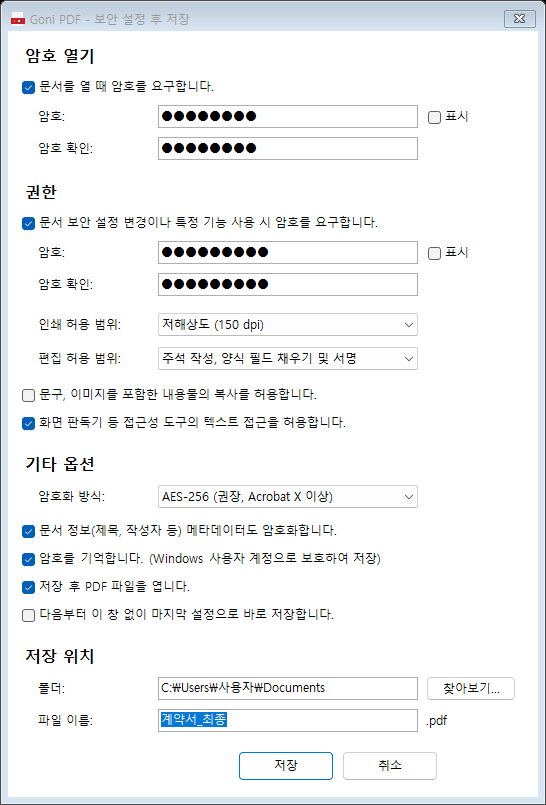
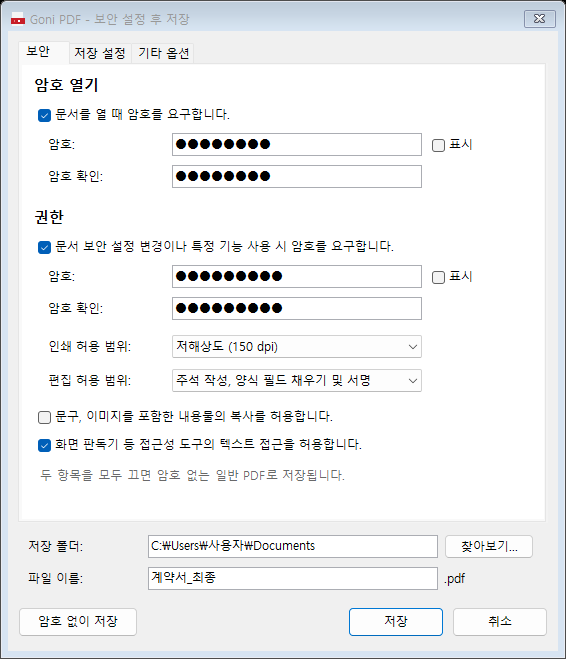
docs: 저장 설정·파일 이름 형식 문서화 및 탭별 스크린샷 갱신

diff --git a/README.md b/README.md
@@ -5,18 +5,20 @@
 ![Platform](https://img.shields.io/badge/platform-Windows%2010%20%7C%2011-0078D6)
 
 모든 Windows 프로그램에서 **"Goni PDF"** 프린터로 인쇄하면, 열기 암호·권한 암호·인쇄/편집/복사 제한이 걸린 PDF로 저장합니다.
-마지막으로 사용한 설정(암호 포함, 선택 시)을 기억합니다.
+마지막으로 사용한 설정(암호 포함, 선택 시)을 기억하고, 필요하면 **[암호 없이 저장]**으로 일반 PDF도 바로 만들 수 있습니다.
+기본 저장 폴더와 파일 이름 형식(`{date}_{title}` 등)을 정할 수 있습니다.
 
 ## 스크린샷
 
-| 인쇄 시 보안 설정 창 (예: 열기 암호 + 권한 제한) | 기본 보안 설정 (트레이 메뉴) |
+| 보안 탭 (열기 암호 + 권한 제한) | 저장 설정 탭 (기본 폴더·파일 이름) |
 |---|---|
-| ![인쇄 시 보안 설정 창](docs/images/dialog-configured.png) | ![기본 보안 설정 창](docs/images/dialog-settings.png) |
+| ![보안 탭](docs/images/dialog-configured.png) | ![저장 설정 탭](docs/images/dialog-save.png) |
 
 <details>
-<summary>처음 인쇄할 때의 기본 화면</summary>
+<summary>처음 인쇄할 때의 기본 화면 / 트레이 메뉴의 기본 설정 창</summary>
 
 ![처음 인쇄 시 기본 화면](docs/images/dialog-default.png)
+![기본 설정 창 - 기타 옵션](docs/images/dialog-settings.png)
 
 </details>
 
@@ -53,12 +55,12 @@
 
 - 프로그램 복사, `Goni PDF` 프린터·포트 등록, 로그온 시 자동 실행, 시작 메뉴 바로가기 생성
 - 제어판 **앱 및 기능**에서 제거 가능 (프린터·포트도 함께 제거, 사용자 설정은 유지)
-- 무인 설치: `GoniPdfPrinterSetup-1.0.0.exe /S` / 무인 제거: `"C:\Program Files\GoniPdfPrinter\Uninstall.exe" /S`
+- 무인 설치: `GoniPdfPrinterSetup-<버전>.exe /S` / 무인 제거: `"C:\Program Files\GoniPdfPrinter\Uninstall.exe" /S`
 
 ## 빌드
 
 ```powershell
-.\build.ps1 -Version 1.0.0
+.\build.ps1 -Version 1.1.0
 ```
 
 앱(`bin\GoniPdfPrinter.exe`)을 컴파일하고, [NSIS 3](https://nsis.sourceforge.io)이 설치돼 있으면 설치 프로그램(`bin\GoniPdfPrinterSetup-<버전>.exe`)도 만듭니다.
@@ -95,12 +97,40 @@
 | | 암호 기억 (Windows DPAPI로 현재 사용자 계정에 묶어 저장) | |
 | | 저장 후 PDF 열기 | |
 | | 다음부터 창 없이 마지막 설정으로 바로 저장 | |
-| 저장 위치 | 폴더, 파일 이름 (기본값: 인쇄한 문서 제목) | |
+| 저장 설정 | 기본 저장 위치: 마지막으로 저장한 폴더 / 항상 지정한 폴더 | |
+| | 기본 파일 이름 형식 (아래 표) + 미리보기 | |
+| | 문서 제목에서 프로그램 이름·확장자 제거 | |
+| | 같은 이름이 있으면: 번호 붙이기 / 덮어쓰기 / 묻기 | |
 
 - 설정 파일: `%APPDATA%\GoniPdfPrinter\settings.ini` — **저장/확인 시마다 마지막 값이 기록**됩니다.
 - 트레이 아이콘 더블클릭(또는 우클릭 → *기본 보안 설정*)으로 언제든 기본값을 바꿀 수 있습니다.
   "창 없이 바로 저장"을 켠 경우 여기서 끄면 됩니다.
-- 두 암호 모두 끄면 암호화 없이 일반 PDF로 저장합니다.
+- **암호 없이 인쇄**: 설정 창의 **[암호 없이 저장]** 버튼은 이번 문서만 일반 PDF로 저장하고 기억된 보안 설정은 그대로 둡니다.
+  항상 암호 없이 저장하려면 보안 탭의 두 항목을 모두 끄세요.
+
+### 파일 이름 형식
+
+| 항목 | 예 (2026-11-23 09:05:07) | 비고 |
+|---|---|---|
+| `{title}` | 분기 보고서 | 인쇄한 문서 제목. 없으면 `문서` |
+| `{date}` / `{time}` / `{datetime}` | 2026-11-23 / 090507 / 2026-11-23_090507 | `{date:yyyyMMdd}`처럼 서식 지정 가능 |
+| `{yyyy}` `{yy}` `{MM}` `{dd}` `{HH}` `{mm}` `{ss}` | 2026 26 11 23 09 05 07 | `{MM}`=월, `{mm}`=분 |
+| `{user}` / `{computer}` | 사용자 이름 / 컴퓨터 이름 | |
+| `{counter}` | 1, 2, 3… | 폴더에 없는 첫 번호. `{counter:000}` → 001 |
+
+예) `{date}_{title}` → `2026-11-23_분기 보고서.pdf`, `스캔_{counter:000}` → `스캔_003.pdf`
+
+기본 폴더에는 환경 변수와 날짜 항목을 쓸 수 있습니다: `%USERPROFILE%\Documents\PDF\{yyyy}-{MM}` (없으면 자동 생성)
+
+**처리하는 엣지 케이스**
+
+- 제목 정리: `보고서.docx - Word`, `Microsoft Excel - 매출.xlsx`, `*제목 없음 - 메모장`, `[호환 모드]`, 전체 경로(`C:\…\계약서.hwp`, UNC), URL(마지막 경로·호스트, % 인코딩 해제)
+- 파일명 안전화: 금지 문자(`\ / : * ? " < > |`) → `_`, 제어·방향 제어(RLO)·0폭 문자 제거, 탭/줄바꿈 → 공백, 끝의 점·공백 제거, NFD 한글 → NFC
+- 예약 이름(`CON`, `NUL`, `COM1`, `aux.txt` …) 앞에 `_`, 빈 제목·금지 문자만 있는 제목 → `문서`
+- 길이: 파일명 150자, 전체 경로 259자 이내로 자동 축약 (이모지 등 서로게이트 쌍을 자르지 않음)
+- `.pdf` 중복 방지, 알 수 없는 `{토큰}`과 제목 속 `{…}`은 그대로 유지
+- 저장 폴더를 쓸 수 없으면(분리된 USB·네트워크 드라이브 등) 문서 폴더로 저장하고 알림
+- 임시 파일에 쓴 뒤 교체하므로 저장 실패 시 기존 파일이 손상되지 않으며, 다른 프로그램에서 연 파일은 안내 후 다시 선택
 
 ## 명령줄 (스크립트·테스트용)
 
@@ -110,6 +140,14 @@ GoniPdfPrinter.exe encrypt 입력.pdf 출력.pdf --open 열기암호 --owner 권
 
 옵션: `--open`, `--owner`, `--print none|low|high`, `--edit 0~4`, `--copy`, `--no-access`, `--aes128`, `--no-meta`
 
+파일 이름 규칙 확인:
+
+```powershell
+GoniPdfPrinter.exe name --title "분기 보고서.docx - Word" --pattern "{date}_{title}" --folder "%USERPROFILE%\Documents\PDF"
+```
+
+옵션: `--title`, `--pattern`, `--folder`(지정 시 최종 경로 출력), `--now 2026-11-23T09:05:07`, `--keep-app`, `--conflict number|overwrite|ask`
+
 기타: `GoniPdfPrinter.exe --settings` (설정 창), `GoniPdfPrinter.exe --test-job 파일.pdf` (프린터 없이 인쇄 작업 흉내)
 
 ## 테스트
@@ -118,7 +156,12 @@ GoniPdfPrinter.exe encrypt 입력.pdf 출력.pdf --open 열기암호 --owner 권
 python -X utf8 tests\verify_encryption.py
 ```
 
-PyMuPDF(`pip install pymupdf`)로 AES-256/128, 한글 암호, 권한 비트, 객체 스트림 PDF, 이미 암호화된 파일 거부를 검증합니다.
+```powershell
+python -X utf8 tests\test_filenames.py
+```
+
+- `verify_encryption.py`: PyMuPDF(`pip install pymupdf`)로 AES-256/128, 한글 암호, 권한 비트, 객체 스트림 PDF, 이미 암호화된 파일 거부를 검증합니다.
+- `test_filenames.py`: 파일 이름·폴더 규칙의 엣지 케이스 53가지를 검증합니다.
 
 ## 참고 / 제한
 
@@ -131,7 +174,8 @@ PyMuPDF(`pip install pymupdf`)로 AES-256/128, 한글 암호, 권한 비트, 객
 | 파일 | 내용 |
 |---|---|
 | `src/Program.cs` | 진입점, 트레이 앱, 파이프 수신기, 작업 처리, CLI |
-| `src/SecurityForm.cs` | 보안 설정 창, 파일명 처리 |
+| `src/SecurityForm.cs` | 설정 창 (보안 / 저장 설정 / 기타 옵션 탭, 암호 없이 저장) |
+| `src/FileNaming.cs` | 파일 이름 형식 전개, 제목 정리, 파일명·폴더 검증, 중복 처리, 안전한 저장 |
 | `src/AppSettings.cs` | 설정 저장/복원 (DPAPI 암호 보호) |
 | `src/PdfModel.cs` | PDF 파서 (xref 테이블/스트림, 객체 스트림, 손상 복구) |
 | `src/PdfSecurity.cs` | 권한 비트, AES-256(R6)/AES-128(R4) 보안 처리기, 암호화 PDF 작성기 |
@@ -139,6 +183,7 @@ PyMuPDF(`pip install pymupdf`)로 AES-256/128, 한글 암호, 권한 비트, 객
 | `installer/printer.ps1` | 프린터·포트 등록/제거 (설치 프로그램에서 호출) |
 | `tools/screenshots.ps1` | README 스크린샷 생성 |
 | `tests/verify_encryption.py` | 암호화 결과 검증 |
+| `tests/test_filenames.py` | 파일 이름·폴더 규칙 엣지 케이스 검증 |
 
 ## 라이선스
 

diff --git a/docs/USER_GUIDE.md b/docs/USER_GUIDE.md
@@ -2,7 +2,7 @@
 
 ## 1. 설치
 
-1. `GoniPdfPrinterSetup-1.0.0.exe`를 실행합니다.
+1. `GoniPdfPrinterSetup-<버전>.exe`를 실행합니다.
 2. 사용자 계정 컨트롤(UAC) 창에서 **예**를 누릅니다.
 3. 설치 폴더를 확인하고 **설치**를 누릅니다.
 4. 완료 화면에서 "Goni PDF 트레이 앱 실행"을 체크한 채 **마침**을 누릅니다.
@@ -14,9 +14,12 @@
 
 1. 워드, 엑셀, 한글, 브라우저 등 아무 프로그램에서 **인쇄**를 선택합니다.
 2. 프린터로 **Goni PDF**를 고르고 인쇄합니다.
-3. 보안 설정 창이 뜨면 원하는 옵션을 지정하고 **저장**을 누릅니다.
+3. 설정 창이 뜨면 원하는 옵션을 지정하고 **저장**을 누릅니다.
+   - 암호가 필요 없는 문서는 **[암호 없이 저장]**을 누르세요. 이번 문서만 일반 PDF로 저장되고, 기억된 보안 설정은 바뀌지 않습니다.
 
-### 설정 창 항목
+설정 창은 **보안 / 저장 설정 / 기타 옵션** 세 탭으로 되어 있고, 아래쪽에서 이번 저장 폴더와 파일 이름을 바로 고칠 수 있습니다.
+
+### 보안 탭
 
 **암호 열기**
 - *문서를 열 때 암호를 요구합니다* — 체크하면 PDF를 열 때 암호를 물어봅니다.
@@ -29,16 +32,44 @@
 - *화면 판독기 등 접근성 도구의 텍스트 접근을 허용합니다*
 
 > 열기 암호와 권한 암호는 서로 달라야 합니다.
+> 두 항목을 모두 끄면 항상 암호 없는 일반 PDF로 저장됩니다.
 
-**기타 옵션**
+### 저장 설정 탭
+
+**기본 저장 위치**
+- *마지막으로 저장한 폴더* — 직전에 저장한 폴더를 다음에도 사용합니다(기본값).
+- *항상 이 폴더* — 늘 같은 폴더에 저장합니다. 환경 변수와 날짜 항목을 쓸 수 있고, 없는 폴더는 자동으로 만듭니다.
+  예) `%USERPROFILE%\Documents\PDF\{yyyy}-{MM}` → `C:\Users\홍길동\Documents\PDF\2026-11`
+
+**기본 파일 이름**
+- *형식* — **[항목 추가 ▾]** 버튼으로 항목을 넣을 수 있고, *미리보기*에 결과가 바로 표시됩니다.
+
+  | 항목 | 의미 | 예 |
+  |---|---|---|
+  | `{title}` | 인쇄한 문서 제목 (없으면 `문서`) | 분기 보고서 |
+  | `{date}` | 날짜 | 2026-11-23 |
+  | `{time}` | 시각 | 090507 |
+  | `{datetime}` | 날짜_시각 | 2026-11-23_090507 |
+  | `{yyyy}` `{MM}` `{dd}` `{HH}` `{mm}` `{ss}` | 연·월·일·시·분·초 (`{MM}` 월, `{mm}` 분) | 2026 11 23 09 05 07 |
+  | `{user}` `{computer}` | 사용자·컴퓨터 이름 | |
+  | `{counter}` | 폴더에 없는 첫 번호 | 1, 2, 3 |
+
+  서식 지정: `{date:yyyyMMdd}` → 20261123, `{date:yyyy년 MM월 dd일}` → 2026년 11월 23일, `{counter:000}` → 001
+
+- *문서 제목에서 프로그램 이름과 확장자를 제거합니다* — `보고서.docx - Word` → `보고서`, `Microsoft Excel - 매출.xlsx` → `매출`, `*제목 없음 - 메모장` → `제목 없음`
+- *같은 이름이 있으면* — 번호 붙이기(`이름 (2).pdf`) / 덮어쓰기 / 저장할 때 묻기
+
+파일 이름에 쓸 수 없는 문자(`\ / : * ? " < > |`)는 `_`로 바뀌고, 너무 긴 이름은 자동으로 줄어듭니다.
+아래쪽 *파일 이름* 칸에 `{date}` 같은 항목을 직접 입력해도 됩니다.
+
+### 기타 옵션 탭
+
 - *암호화 방식* — AES-256(권장, 한글 암호 가능) / AES-128(오래된 뷰어 호환, 영문·숫자·기호 암호만)
 - *메타데이터도 암호화* — 제목·작성자 등 문서 정보까지 암호화
 - *암호를 기억합니다* — 다음 인쇄 때 암호가 자동으로 채워집니다. Windows 계정으로 보호되어 저장됩니다.
 - *저장 후 PDF 파일을 엽니다*
-- *다음부터 이 창 없이 마지막 설정으로 바로 저장합니다* — 창을 띄우지 않고 저장 폴더에 바로 저장합니다(같은 이름이 있으면 `이름 (2).pdf`).
-
-**저장 위치**
-- 폴더와 파일 이름. 파일 이름은 인쇄한 문서 제목으로 자동 입력됩니다.
+- *다음부터 이 창 없이 마지막 설정으로 바로 저장합니다* — 창을 띄우지 않고 기본 저장 위치에 파일 이름 형식대로 바로 저장합니다.
+  기본 폴더를 쓸 수 없으면 문서 폴더에 저장하고 알려 주며, "저장할 때 묻기"로 설정했는데 같은 이름이 있으면 창을 띄웁니다.
 
 모든 설정은 저장할 때 기억되어 다음 인쇄 때 그대로 표시됩니다.
 
@@ -62,6 +93,8 @@
 | "창 없이 바로 저장"을 끄고 싶음 | 트레이 아이콘 더블클릭 → 해당 항목 체크 해제 → 확인 |
 | "PDF가 아닌 인쇄 데이터" 알림 | 프린터 속성에서 드라이버가 *Microsoft Print To PDF*인지 확인, 설치 프로그램 재실행 |
 | AES-128에서 한글 암호 오류 | AES-128은 영문/숫자/기호만 지원합니다. AES-256을 선택하세요 |
+| 저장 시 "다른 프로그램에서 열려 있는지 확인" 오류 | PDF 뷰어에서 그 파일을 닫거나 다른 이름으로 저장하세요. 기존 파일은 손상되지 않습니다 |
+| 날짜별 폴더에 자동 정리하고 싶음 | 저장 설정 탭 → *항상 이 폴더*에 `…\PDF\{yyyy}-{MM}` 입력 |
 | 권한 제한이 적용되지 않는 것 같음 | 일부 뷰어는 권한 플래그를 무시합니다. Adobe Acrobat/Reader, Edge, Chrome에서 확인하세요 |
 
 ## 5. 제거

diff --git a/docs/ARCHITECTURE.md b/docs/ARCHITECTURE.md
@@ -45,7 +45,8 @@
 | 파일 | 역할 |
 |---|---|
 | `src/Program.cs` | 진입점(명령줄 분기), 단일 인스턴스 뮤텍스, `TrayApp`, `PipeListener`, 아이콘 |
-| `src/SecurityForm.cs` | 보안 설정 창(작업 모드/설정 모드), 파일명 생성 `FileNames` |
+| `src/SecurityForm.cs` | 설정 창(작업 모드/설정 모드, 보안·저장 설정·기타 옵션 탭, 암호 없이 저장) |
+| `src/FileNaming.cs` | 파일 이름 형식 전개, 제목 정리, 파일명·폴더 검증, 중복 처리, 원자적 저장 |
 | `src/AppSettings.cs` | `settings.ini` 읽기·쓰기, DPAPI 암호 보호 |
 | `src/PdfModel.cs` | PDF 객체 모델, 렉서/파서, 교차참조 해석, 손상 파일 복구 |
 | `src/PdfSecurity.cs` | 권한 옵션, `/P` 계산, AES-256(R6)·AES-128(R4) 처리기, 암호화 PDF 작성기 |
@@ -61,9 +62,12 @@
 2. 스풀러가 핸들을 닫으면(EOF) 수신한 바이트 전체를 하나의 작업으로 UI 스레드 큐에 넣는다.
 3. `TrayApp.ProcessJob`
    - `%PDF` 헤더 확인 (다른 드라이버가 연결된 경우 오류 알림)
-   - PDF `/Info /Title`(= 인쇄한 문서 이름)로 기본 파일명 생성 (`보고서.docx` → `보고서`)
+   - PDF `/Info /Title`(= 인쇄한 문서 이름)을 읽음
    - 설정 로드 → "창 없이 저장"이 꺼져 있거나 설정이 불완전하면 `SecurityForm` 표시
-   - `PdfEncryptor.Encrypt` → 파일 저장 → 설정 저장 → 알림 / 저장 후 열기
+     ("암호 없이 저장"을 누르면 `SkipEncryptionOnce`로 이번 작업만 암호화를 건너뜀 — 파일에 기록하지 않음)
+   - 창 없이 저장: 기본 폴더 해석 → 쓰기 확인(실패 시 문서 폴더로 대체 + 알림) → 파일 이름 형식 전개 → 중복 처리
+     ("묻기" 모드에서 같은 이름이 있으면 창 표시)
+   - `PdfEncryptor.Encrypt` → `FileNaming.WriteAtomic` → `LastFolder` 갱신·설정 저장 → 알림 / 저장 후 열기
    - 오류 시 메시지 후 설정 창으로 돌아가 재시도
 4. 작업은 큐로 직렬 처리되어 설정 창이 중첩되지 않는다.
 
@@ -120,6 +124,28 @@
 - 저장 시점: 작업 저장 성공 시, 설정 창 [확인] 시
 - 암호: "암호 기억"이 켜져 있을 때만, `ProtectedData.Protect`(DPAPI, CurrentUser 범위, 고유 엔트로피)로 암호화한 Base64로 저장. 다른 사용자/PC에서는 복호화할 수 없다.
 - 임시 파일에 쓴 뒤 교체하여 손상을 방지한다.
+- 저장 관련 키: `FolderMode`(0 마지막 폴더, 1 지정 폴더), `FixedFolder`, `LastFolder`, `FileNamePattern`, `Conflict`(0 번호, 1 덮어쓰기, 2 묻기), `StripAppName`
+- 1.0.0 호환: 예전 `OutputFolder` 값은 `LastFolder`·`FixedFolder`로 옮겨진다.
+
+## 6-1. 파일 이름·저장 폴더 규칙 (`FileNaming`)
+
+처리 순서:
+
+1. **제목 정리** (`CleanTitle`): NFC 정규화 → 제어·방향 제어·0폭 문자 제거, 공백류 하나로 →
+   프로그램 이름 제거(앞 `Microsoft Word - X`, 뒤 `X - Word`, 최대 3회 반복) → `[호환 모드]` 등 표시 제거 →
+   URL이면 마지막 경로 조각(디코딩) 또는 호스트, 전체 경로(`C:\`, `\\`, `/`)면 파일명 → 알려진 문서 확장자만 제거
+   (`file.tar.gz`, `v1.2`처럼 모르는 확장자는 유지)
+2. **형식 전개** (`Expand`): `{토큰}` / `{토큰:서식}`을 한 번만 치환한다. 제목 안의 `{…}`은 다시 전개하지 않으며,
+   알 수 없는 토큰은 그대로 둔다. 날짜 서식은 InvariantCulture, 잘못된 서식은 기본 서식으로 대체한다.
+3. **파일명 안전화** (`SanitizeFileName`): 금지 문자 → `_`(연속은 하나로), 끝의 `.pdf`·점·공백 제거,
+   150자(텍스트 요소 단위 — 서로게이트 쌍 보존)로 자름, 비거나 `_`만 남으면 `문서`, 예약 장치 이름이면 앞에 `_`.
+4. **폴더 해석** (`ResolveFolder`): 따옴표 제거 → 환경 변수 → 날짜/사용자 토큰 → `~` → 상대 경로는 문서 폴더 기준 →
+   잘못된 문자·드라이브 외 `:`는 거부 → `GetFullPath`. `EnsureWritable`이 폴더 생성과 실제 쓰기를 확인한다.
+5. **경로 결정** (`BuildPath`): 전체 경로가 259자를 넘지 않게 이름을 줄이고, 중복 규칙(번호/덮어쓰기/묻기)을 적용.
+   `{counter}`가 있으면 폴더에 없는 첫 번호를 찾는다.
+6. **저장** (`WriteAtomic`): 같은 폴더의 임시 파일에 쓴 뒤 `File.Replace`/`File.Move`. 실패해도 기존 파일은 그대로.
+
+검증: `tests/test_filenames.py` (CLI `name` 명령으로 53개 사례 확인)
 
 ## 7. 설치 구성
 
